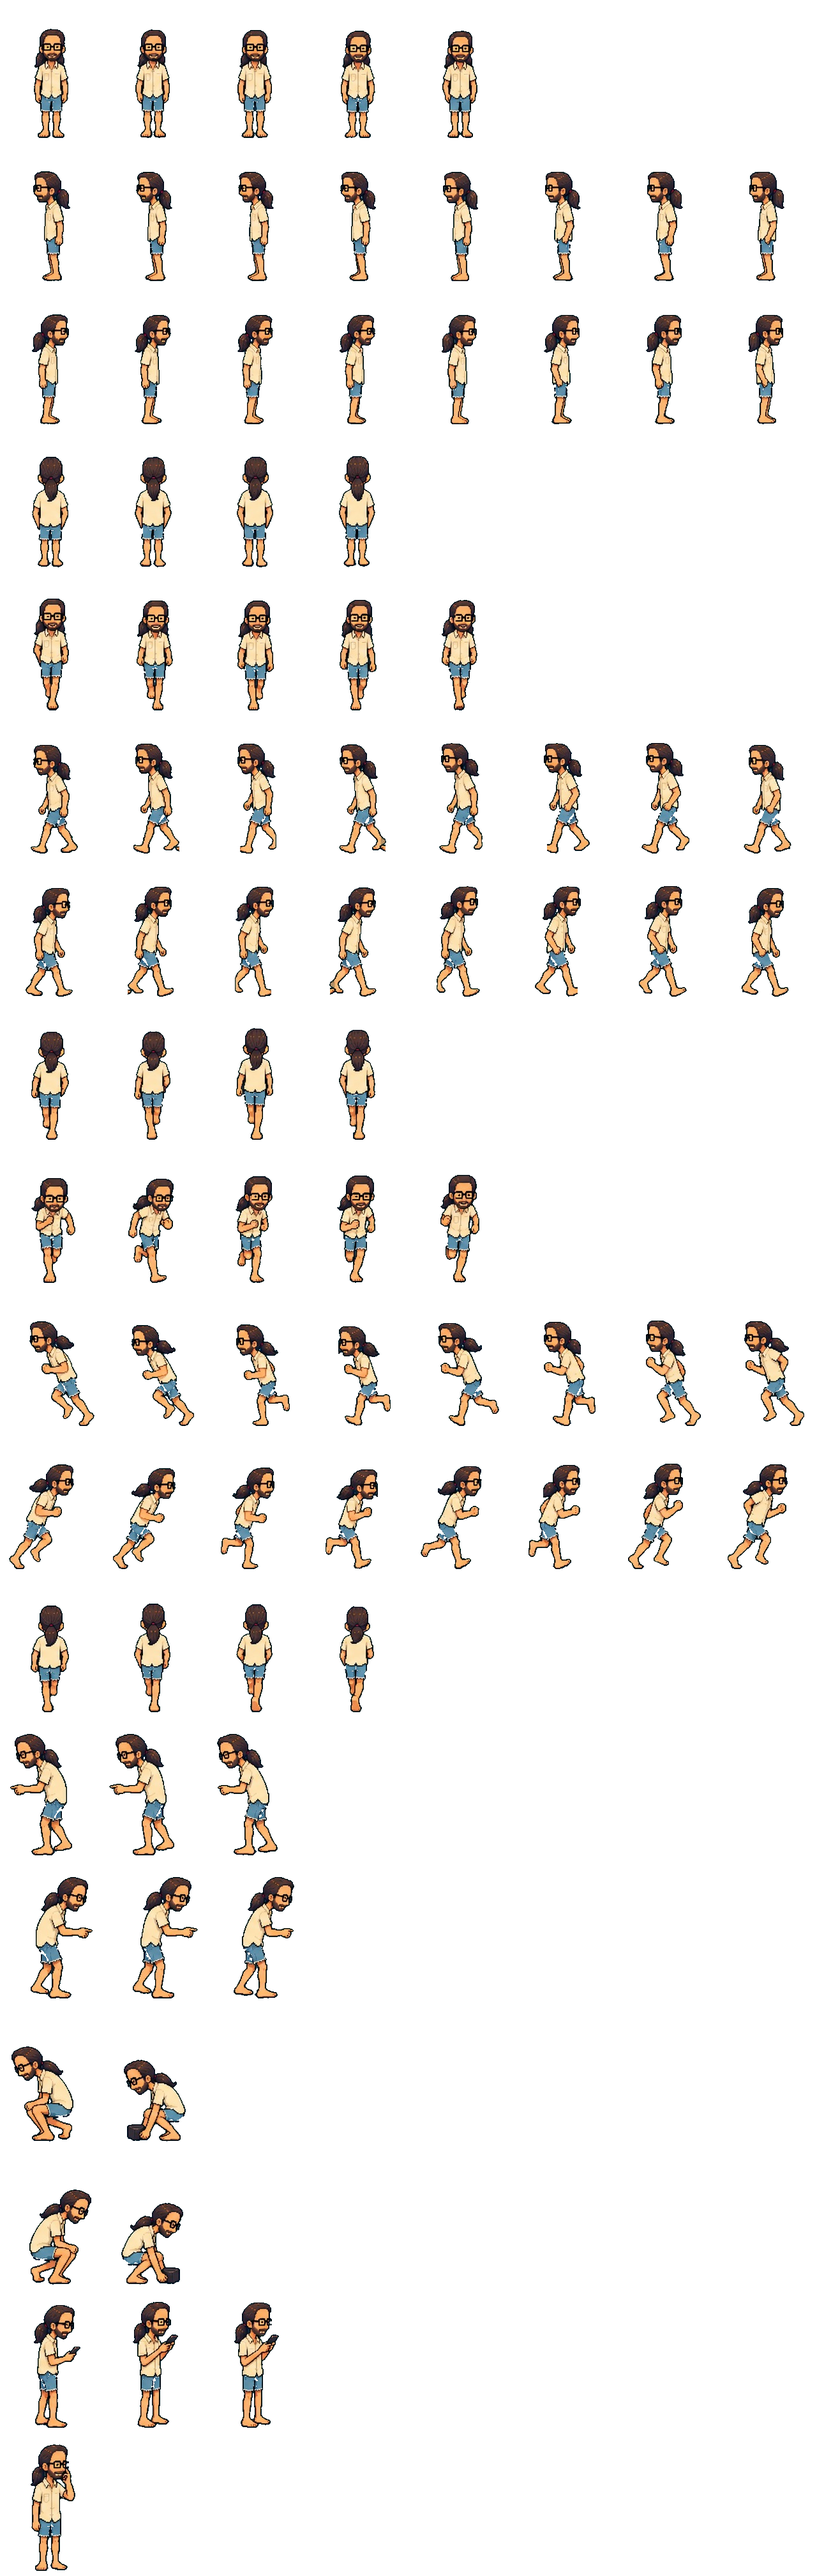
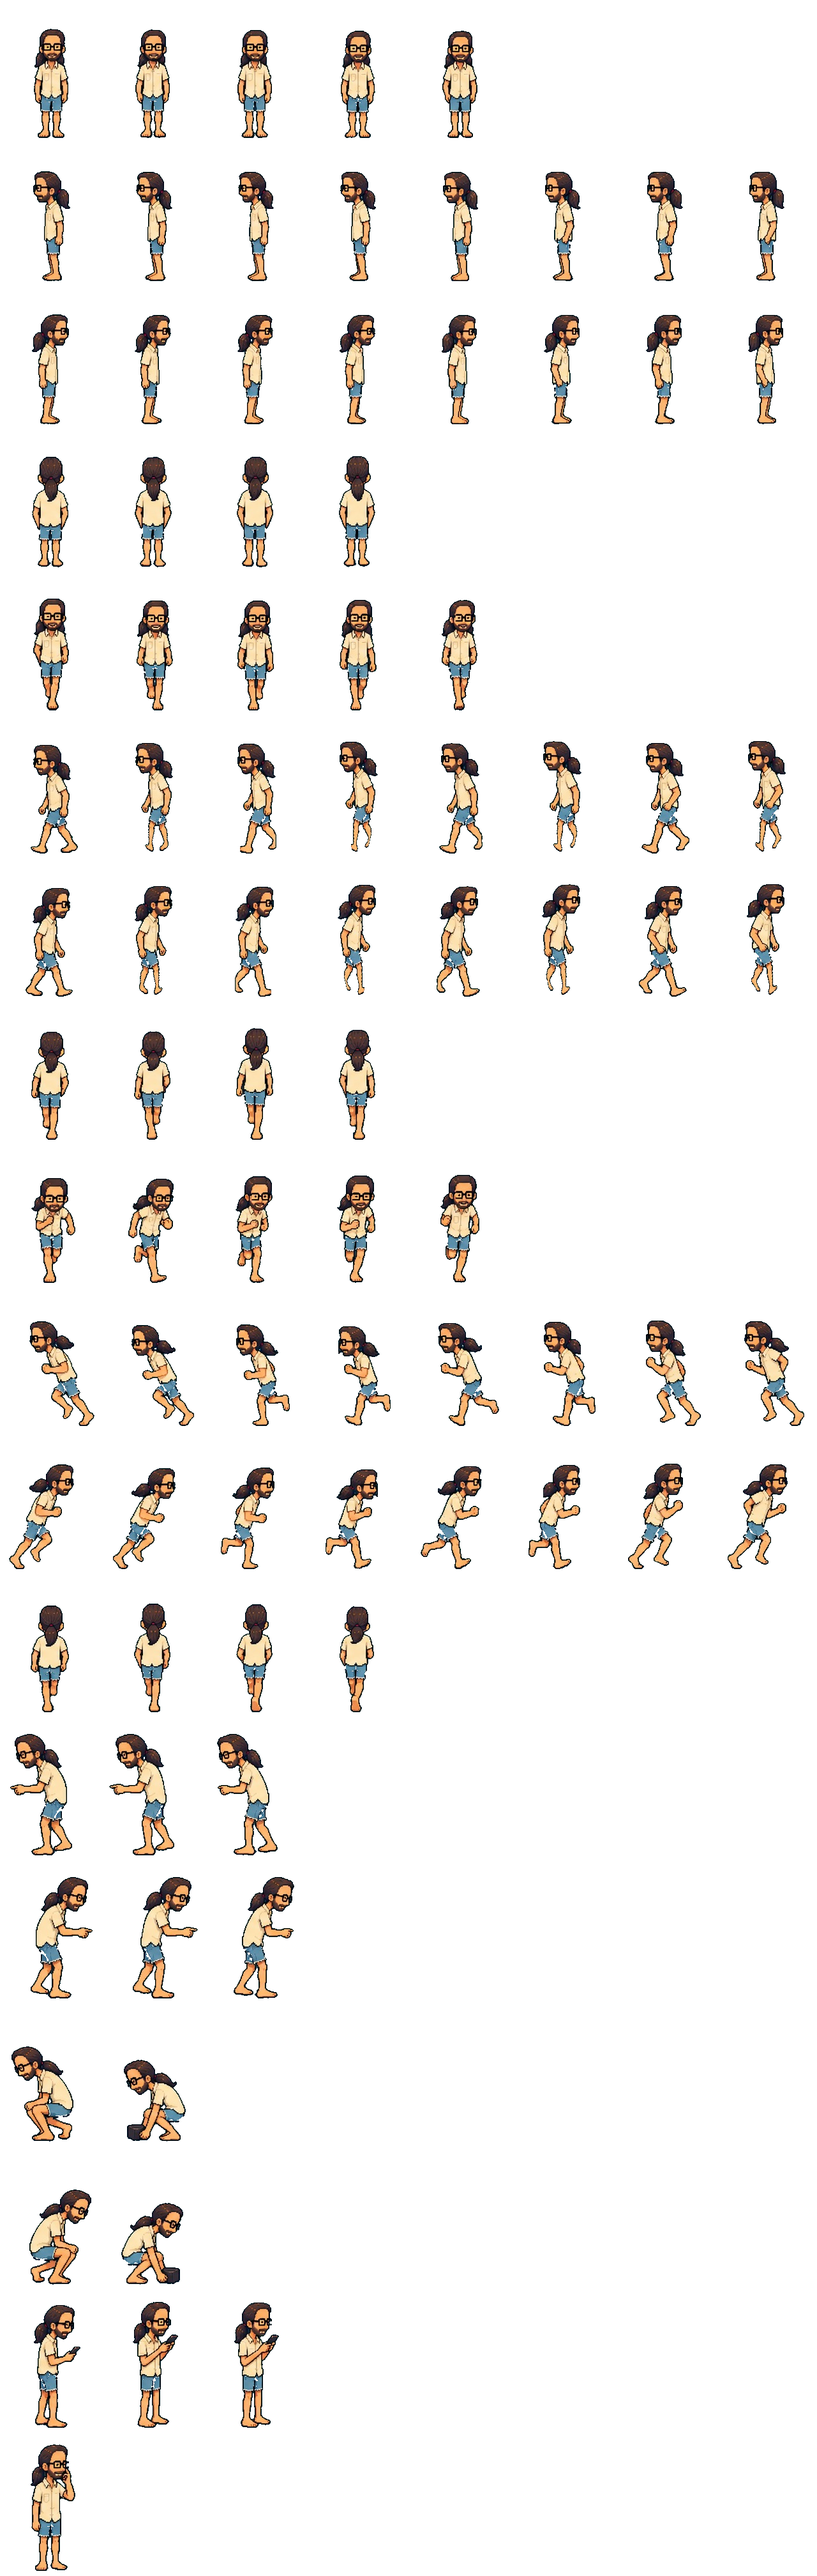
Aventura: piernas al andar de lado, sin destello azul, pantalla completa
- Ciclo de andar izquierda/derecha con poses de paso intermedias (Alex y Sergio)
- Sin selección de texto ni resaltado al hacer clic
- Fuera el texto de 'voces próximamente'; botón y tecla F para pantalla completa

Claude-Session: https://claude.ai/code/session_01BQjnMfE5rxgYBBoykgExcw

diff --git a/aventura/index.html b/aventura/index.html
@@ -13,7 +13,12 @@
   color-scheme:dark;
 }
 [hidden]{display:none!important}
-html,body{height:100%}
+html,body{height:100%;-webkit-tap-highlight-color:transparent}
+body{-webkit-user-select:none;user-select:none}
+*::selection{background:transparent}
+#cv:focus,.stage:focus{outline:none}
+:fullscreen body,body.fs{padding-block:6px}
+:fullscreen .stage{width:min(100%, calc((100dvh - 48px) * 2))}
 body{background:var(--ink);color:var(--text);font-family:var(--body);padding-inline:16px;padding-block:12px;box-sizing:border-box;display:flex;flex-direction:column;align-items:center;gap:10px;overflow-x:hidden}
 .stage{position:relative;width:min(100%, calc((100dvh - 96px) * 2));aspect-ratio:2/1;max-width:100%;container-type:inline-size;background:#000;border:2px solid var(--line);border-radius:6px;overflow:hidden;user-select:none;-webkit-user-select:none;touch-action:manipulation}
 #cv{position:absolute;inset:0;width:100%;height:100%;image-rendering:pixelated;cursor:crosshair;transform-origin:80.6% 50.6%;transition:transform 1.6s cubic-bezier(.6,0,.4,1), filter 2s}
@@ -137,7 +142,7 @@ body{background:var(--ink);color:var(--text);font-family:var(--body);padding-inl
 
 </div>
 <div class="foot" id="foot">
-  <span id="footTx">Versión con subtítulos · las voces llegarán más adelante</span>
+  <button id="fsBtn" aria-pressed="false">Pantalla completa</button>
   <button id="autoBtn" aria-pressed="true">Auto: sí</button>
   <button id="musicBtn" aria-pressed="true">Música: sí</button>
 </div>
@@ -158,7 +163,7 @@ const META={
 const IMG={};
 function loadImg(k,src){return new Promise(r=>{const i=new Image();i.onload=()=>{IMG[k]=i;r()};i.onerror=()=>r();i.src=src})}
 const MOOD={neutral:0,smile:1,laugh:2,confused:3};
-const AV='20261007b';
+const AV='20261007c';
 const faceSrc=(who,m)=>`assets/${who}_face${MOOD[m||'neutral']??0}.png?v=${AV}`;
 
 /* ---------- Voces ----------
@@ -699,6 +704,15 @@ function loop(t){const dt=Math.min(.05,(t-last)/1000);last=t;NOW=t/1000;
 
 /* ---------- Arranque y capítulos ---------- */
 $('#musicBtn').onclick=()=>{MUSIC.on=!MUSIC.on;$('#musicBtn').textContent='Música: '+(MUSIC.on?'sí':'no');$('#musicBtn').setAttribute('aria-pressed',MUSIC.on);MUSIC.ensure()&&MUSIC.level(false)};
+function fsSync(){const on=!!(document.fullscreenElement||document.webkitFullscreenElement);$('#fsBtn').textContent=on?'Salir de pantalla completa':'Pantalla completa';$('#fsBtn').setAttribute('aria-pressed',on)}
+function toggleFS(){const d=document,el=d.documentElement;
+ if(d.fullscreenElement||d.webkitFullscreenElement){(d.exitFullscreen||d.webkitExitFullscreen).call(d)}
+ else{const f=el.requestFullscreen||el.webkitRequestFullscreen;if(f){const r=f.call(el,{navigationUI:'hide'});r&&r.catch&&r.catch(()=>{})}}}
+$('#fsBtn').onclick=toggleFS;
+document.addEventListener('fullscreenchange',fsSync);document.addEventListener('webkitfullscreenchange',fsSync);
+if(!(document.documentElement.requestFullscreen||document.documentElement.webkitRequestFullscreen))$('#fsBtn').hidden=true;
+document.addEventListener('keydown',e=>{if((e.key==='f'||e.key==='F')&&!e.ctrlKey&&!e.metaKey&&!e.altKey&&!/INPUT|TEXTAREA/.test(e.target.tagName))toggleFS()});
+$('#stage').addEventListener('mousedown',e=>{if(!e.target.closest('button,a'))e.preventDefault()});
 $('#autoBtn').onclick=()=>{S.auto=!S.auto;$('#autoBtn').textContent='Auto: '+(S.auto?'sí':'no');$('#autoBtn').setAttribute('aria-pressed',S.auto)};
 $('#start').addEventListener('pointerdown',e=>e.stopPropagation());
 function reset(){Object.assign(S,{mode:'room',busy:false,tvOn:false,tvGame:false,owlBroken:false,consoleDead:false,consoleOn:false,pcBuilt:false,haze:0,bulb:0,inv:[],sel:null,looks:{},usedScrew:false,drawerTry:0,gotBox:false,smokeOff:false,fridgeOpen:0,lampUsed:false,cat:false,dark:0,catTalk:0});cv.style.filter='';cv.style.transform='';sergio.visible=false;alex.anim=null;alex.tx=null;$('#phone').hidden=true;$('#owlbox').hidden=true;if(D.res)finishLine();$('#stage').classList.remove('fighting');$('#hud').hidden=false;renderInv()}
